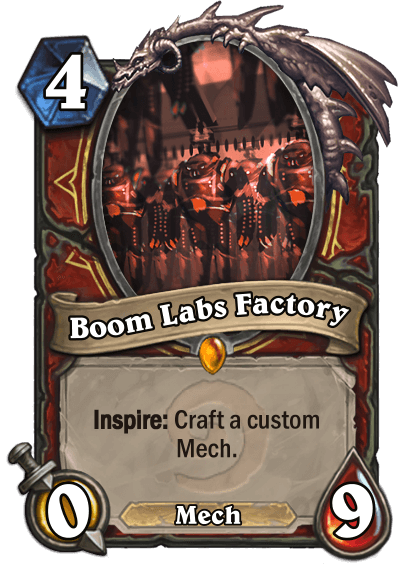
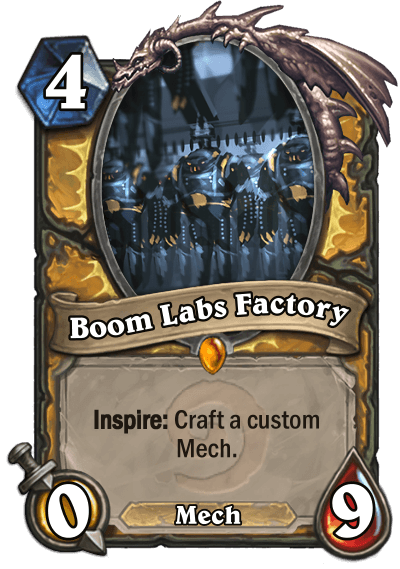
Switched Boom Labs Factory from Warrior to Paladin
Because Paladin has more relevant mechs.

diff --git a/js/build_a_card.js b/js/build_a_card.js
@@ -455,7 +455,7 @@ class BuildAMechCardBuilder extends CardBuilder
             //Mechs with only card text
             const textPool = this.buildACardApp.pools.allCollectibleMinions.filter((cardData) =>
             {
-                if(cardData.cardClass !== "NEUTRAL" && cardData.cardClass !== "WARRIOR")
+                if(cardData.cardClass !== "NEUTRAL" && cardData.cardClass !== "PALADIN")
                 {
                     return false;
                 }
@@ -513,7 +513,7 @@ class BuildAMechCardBuilder extends CardBuilder
             //Mechs that are blank or only has keywords
             const keywordsPool = this.buildACardApp.pools.allCollectibleMinions.filter((cardData) =>
             {
-                if(cardData.cardClass !== "NEUTRAL" && cardData.cardClass !== "WARRIOR")
+                if(cardData.cardClass !== "NEUTRAL" && cardData.cardClass !== "PALADIN")
                 {
                     return false;
                 }
@@ -659,7 +659,7 @@ class BuildAMechCardBuilder extends CardBuilder
                         id: "BACS_DRBOOM_SPAREPART_HEALTH",
                         name: "Armor Plating",
                         text: "Gain +1 Health.",
-                        cardClass: "WARRIOR",
+                        cardClass: "PALADIN",
                         collectible: false,
                         cost: 0,
                         type: "SPELL"
@@ -672,7 +672,7 @@ class BuildAMechCardBuilder extends CardBuilder
                         id: "BACS_DRBOOM_SPAREPART_STEALTH",
                         name: "Finicky Cloakfield",
                         text: "Gain <b>Stealth.</b>",
-                        cardClass: "WARRIOR",
+                        cardClass: "PALADIN",
                         collectible: false,
                         cost: 0,
                         type: "SPELL"
@@ -685,7 +685,7 @@ class BuildAMechCardBuilder extends CardBuilder
                         id: "BACS_DRBOOM_SPAREPART_SWAP",
                         name: "Reversing Switch",
                         text: "Swap Attack and Health.",
-                        cardClass: "WARRIOR",
+                        cardClass: "PALADIN",
                         collectible: false,
                         cost: 0,
                         type: "SPELL"
@@ -698,7 +698,7 @@ class BuildAMechCardBuilder extends CardBuilder
                         id: "BACS_DRBOOM_SPAREPART_TAUNT",
                         name: "Rusty Horn",
                         text: "Gain <b>Taunt.</b>",
-                        cardClass: "WARRIOR",
+                        cardClass: "PALADIN",
                         collectible: false,
                         cost: 0,
                         type: "SPELL"
@@ -711,7 +711,7 @@ class BuildAMechCardBuilder extends CardBuilder
                         id: "BACS_DRBOOM_SPAREPART_ATTACK",
                         name: "Whirling Blades",
                         text: "Gain +1 Attack.",
-                        cardClass: "WARRIOR",
+                        cardClass: "PALADIN",
                         collectible: false,
                         cost: 0,
                         type: "SPELL"
@@ -724,7 +724,7 @@ class BuildAMechCardBuilder extends CardBuilder
                         id: "BACS_DRBOOM_SPAREPART_MAGNETIC",
                         name: "Magnetizer",
                         text: "Gain <b>Magnetic.</b>",
-                        cardClass: "WARRIOR",
+                        cardClass: "PALADIN",
                         collectible: false,
                         cost: 0,
                         type: "SPELL"
